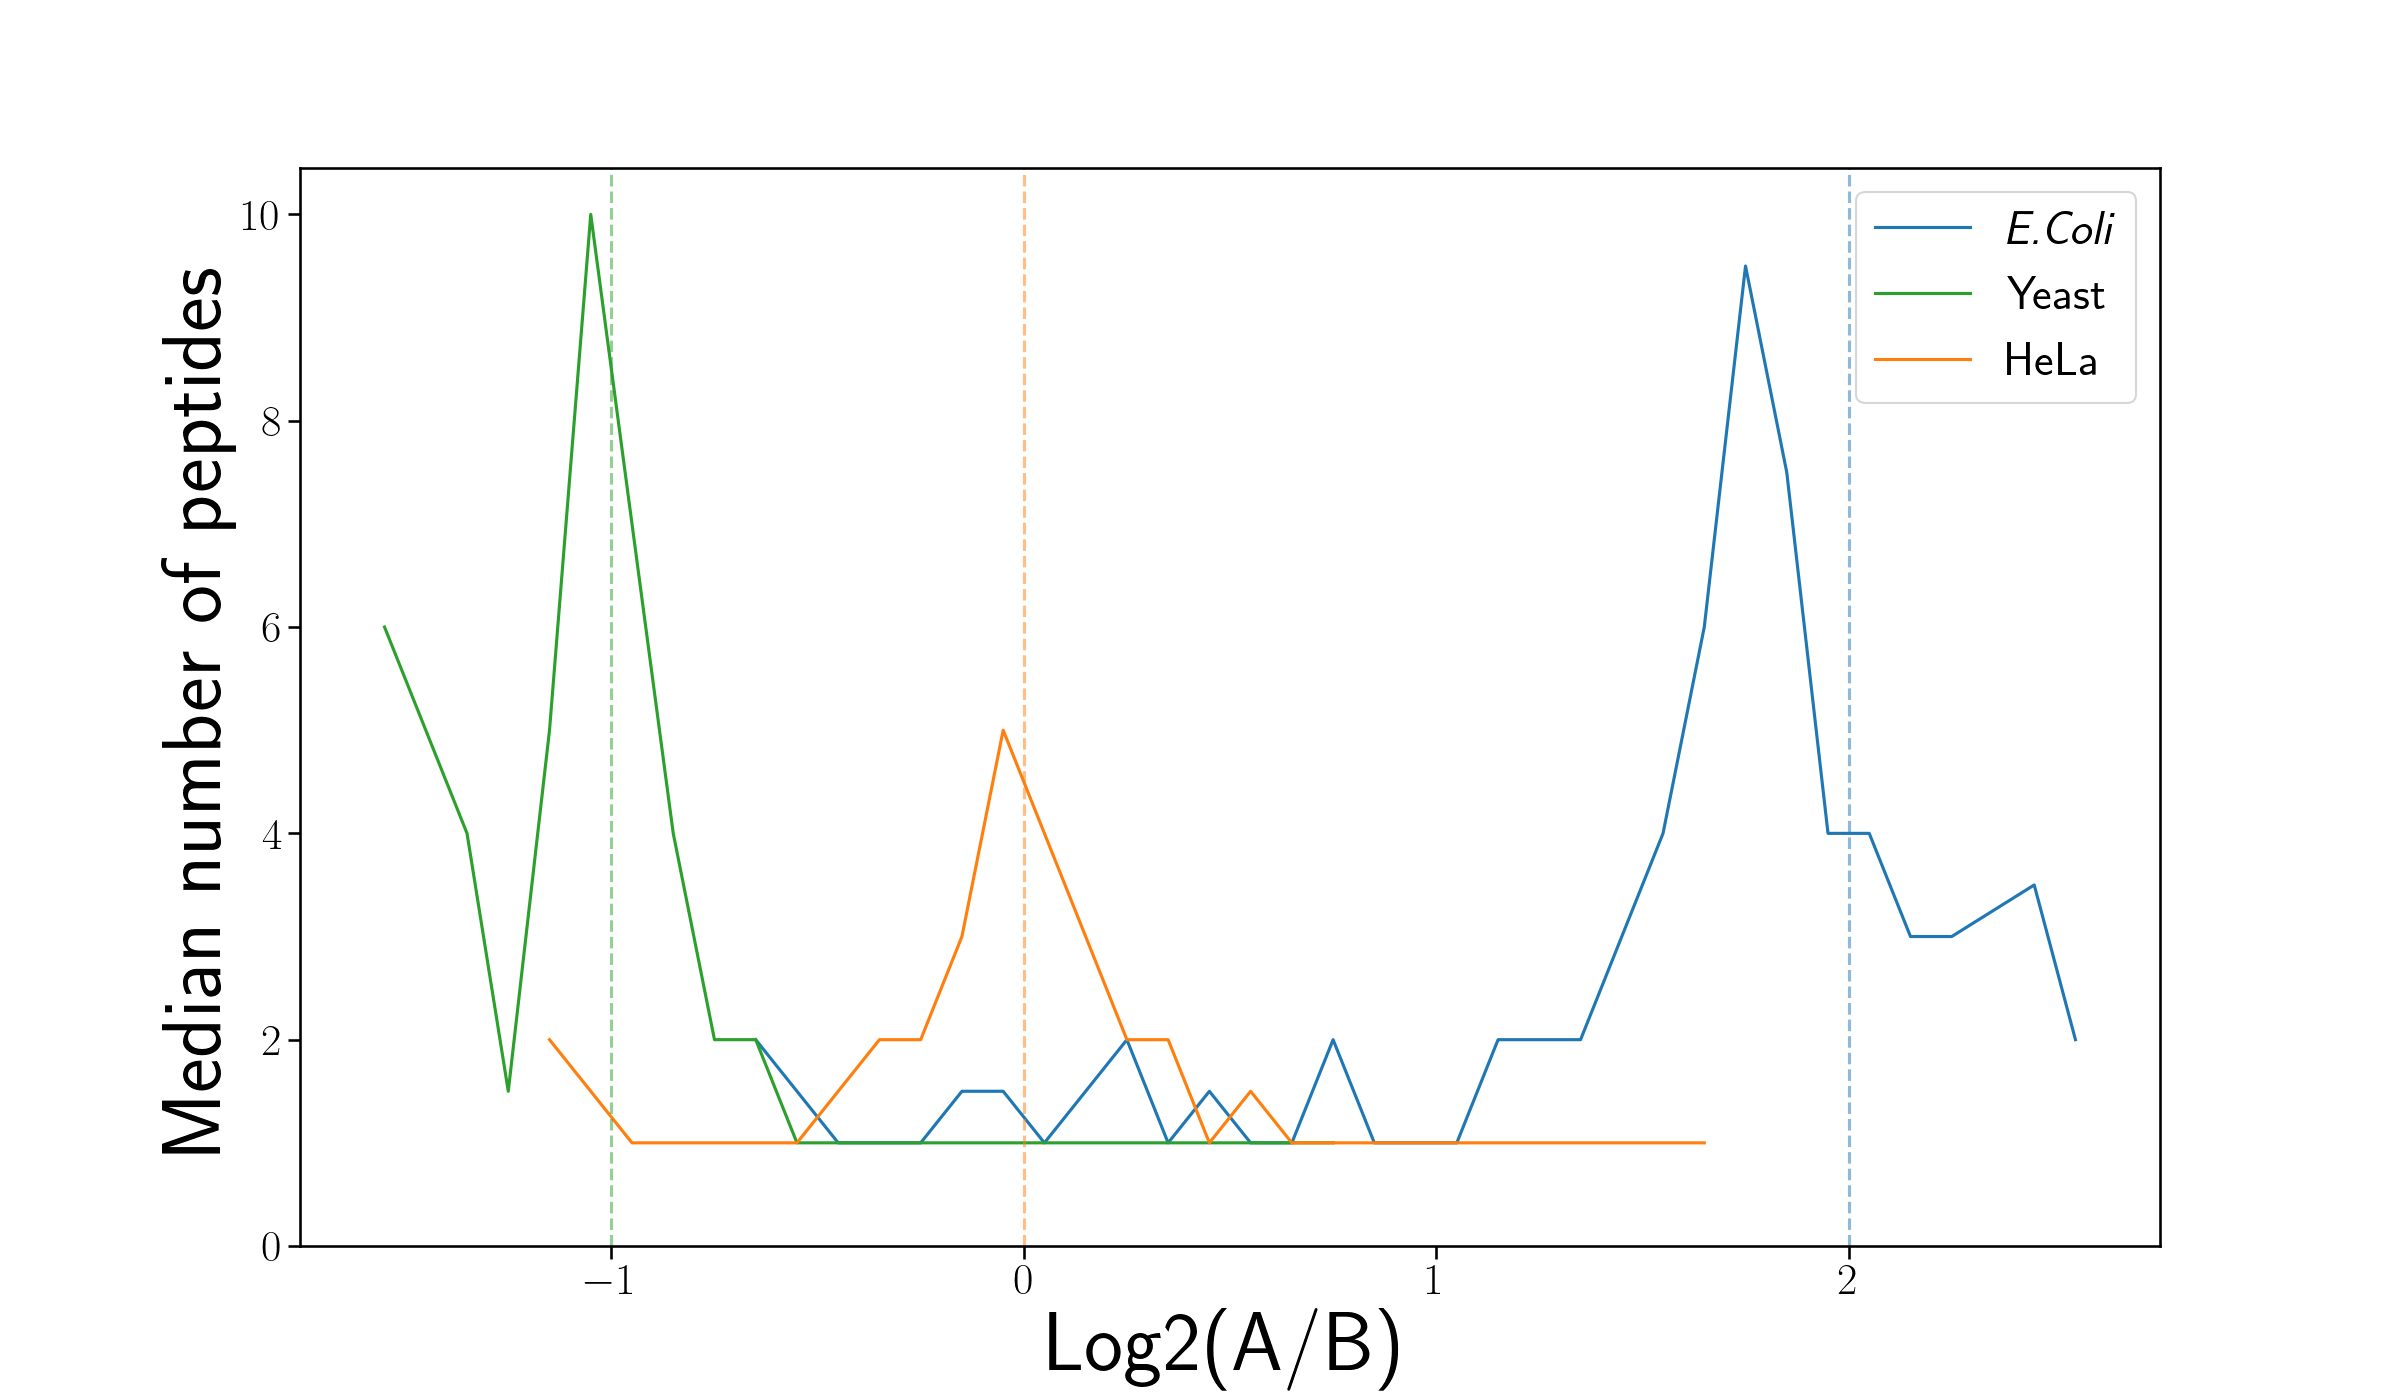
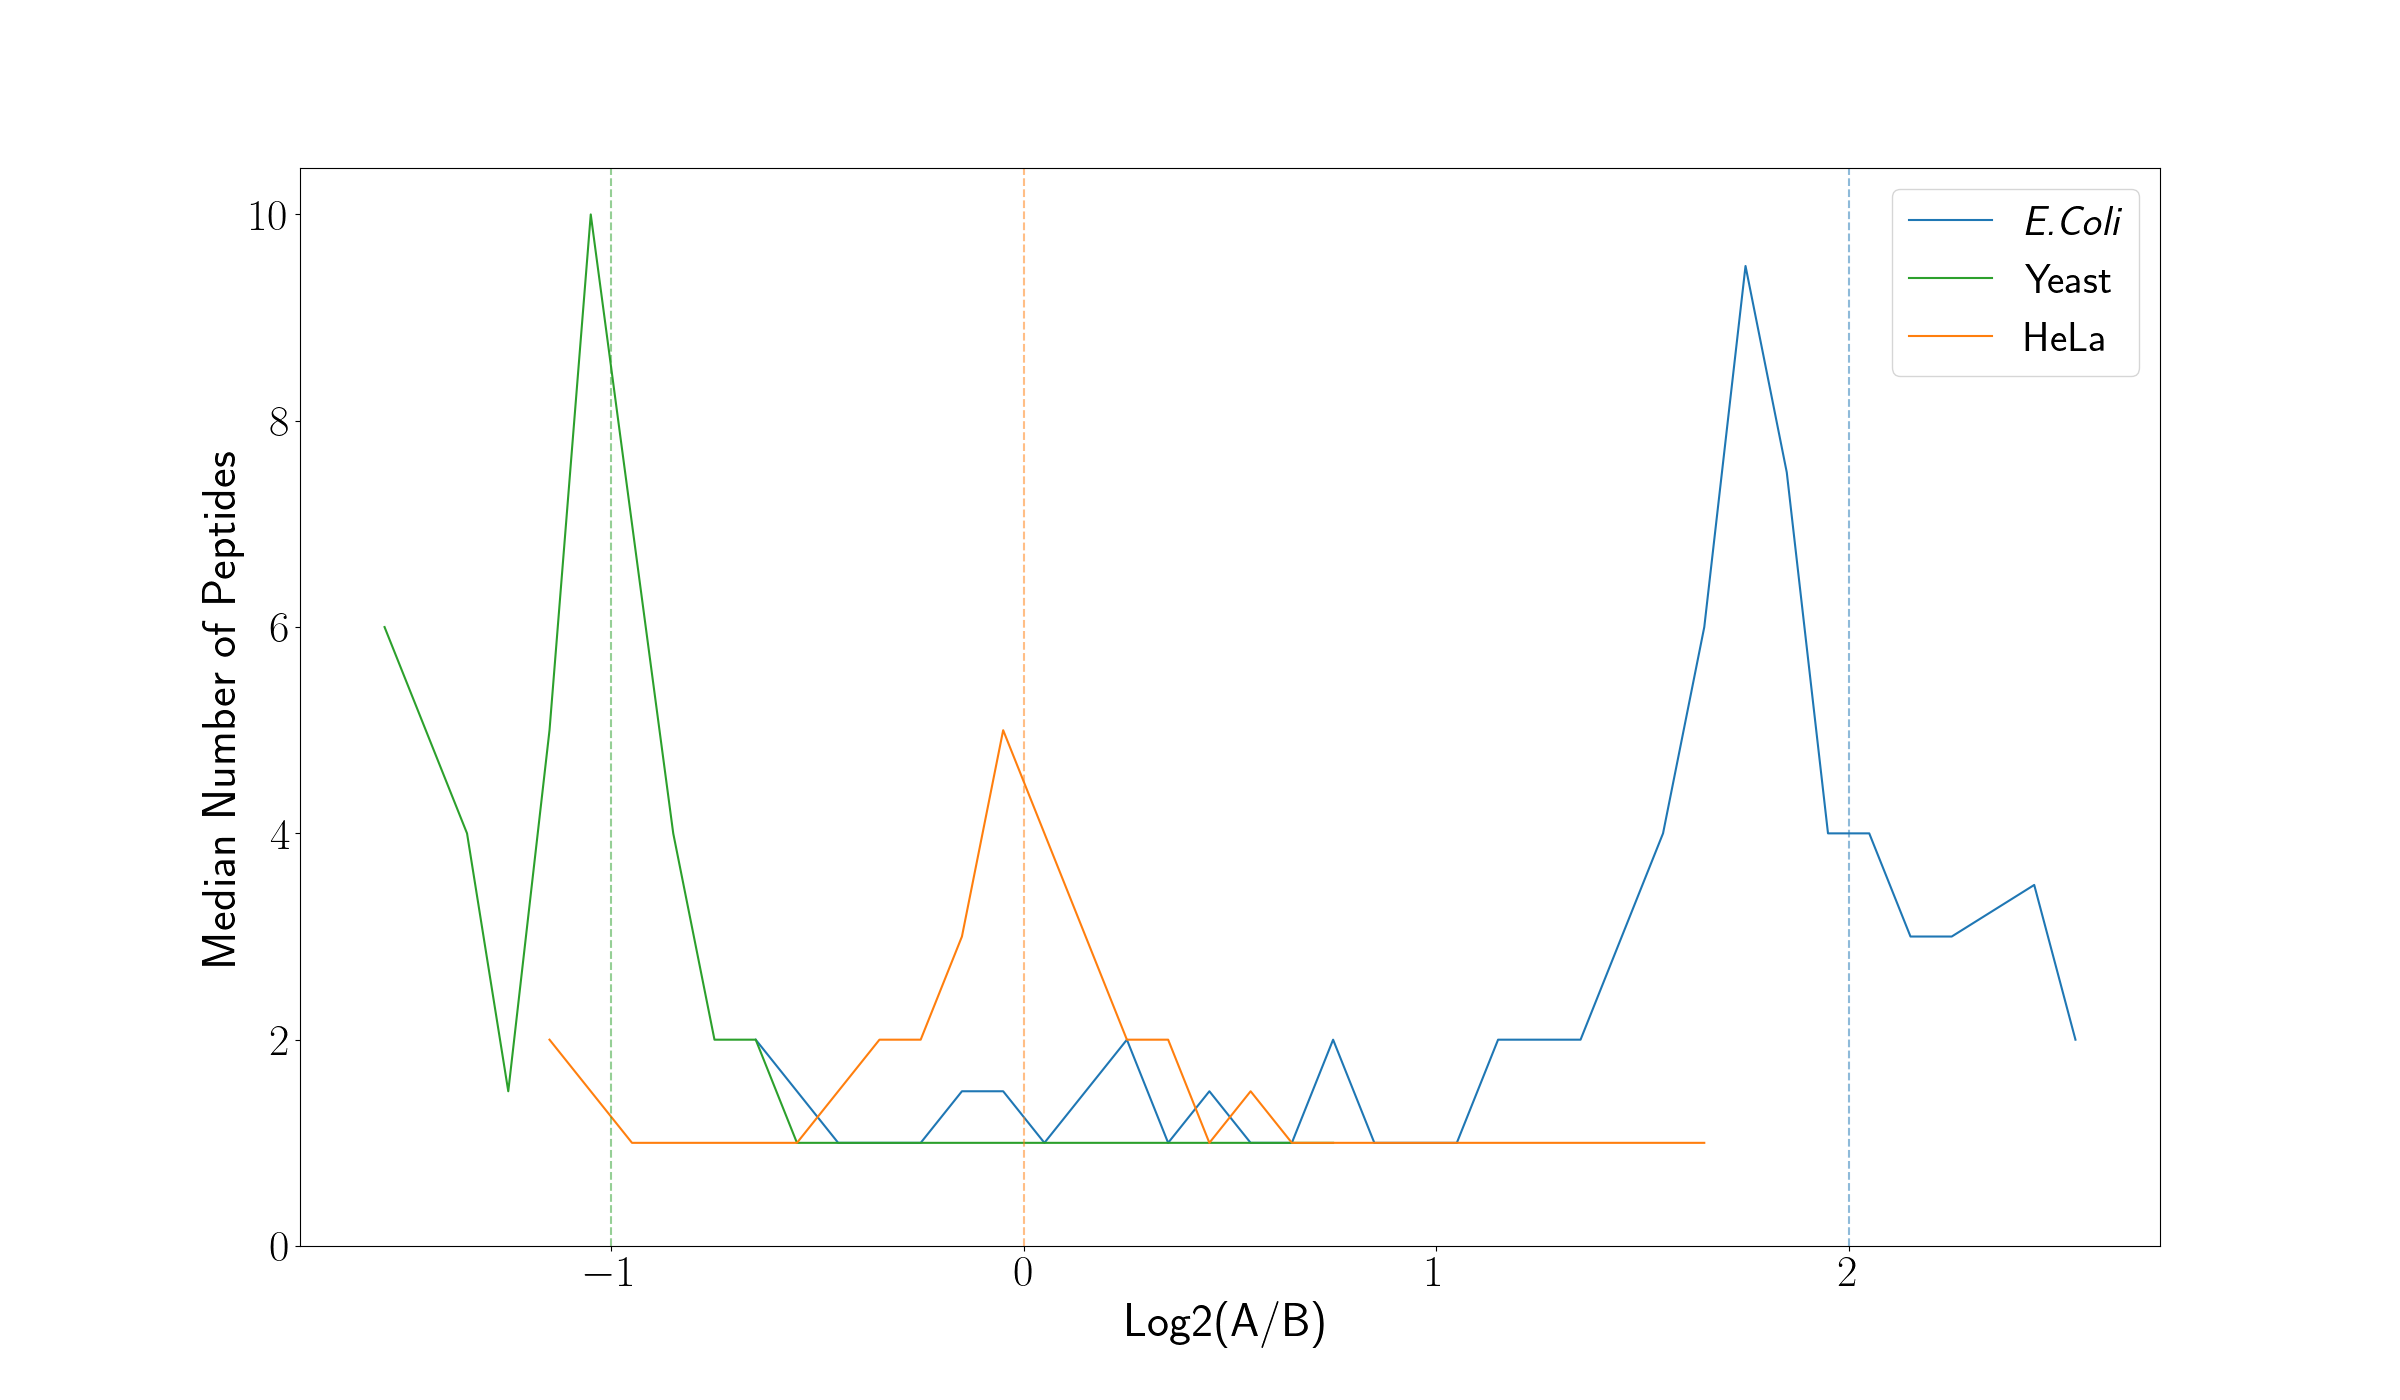
update fc_count plot

diff --git a/scripts/clean/plot_triqler_number_of_peptides_per_fc_range.py b/scripts/clean/plot_triqler_number_of_peptides_per_fc_range.py
@@ -64,7 +64,7 @@ def plot_number_of_peptides_per_log2FC_range(result_file, input_file, step = 0.2
     ax.legend(fontsize=30)
 
     ax.set_xlabel("Log2(A/B)", fontsize=34)
-    ax.set_ylabel("Median number of peptides", fontsize=34)
+    ax.set_ylabel("Median Number of Peptides", fontsize=34)
     
     ax.tick_params(axis='x', which='major', labelsize=32)#labelrotation=90)
     ax.tick_params(axis='y', which='major', labelsize=32)
